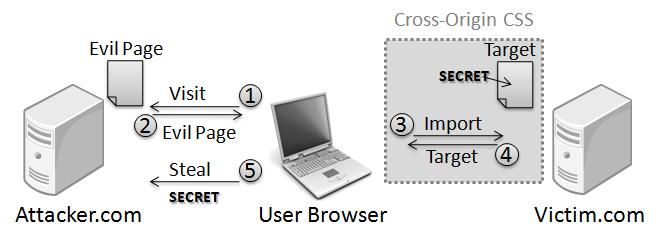
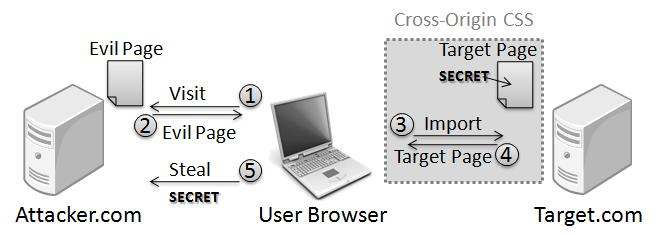
Modify figures

Changed region(s): [[0.7867, 0.8638, 0.9985, 0.983], [0.6051, 0.6255, 0.7564, 0.7149], [0.6657, 0.1787, 0.8169, 0.2681]]

diff --git a/css.tex b/css.tex
@@ -55,7 +55,7 @@ The web attacker can send and receive network messages over network protocols of
 We assume that the user visits the attacker's web site with a popular browser. In practice, this assumption can be supported by several techniques for attacking users, e.g. buying web advertisements or sending bulk e-mail to encourage visitors. By visiting attacker.com, the attacker can instruct the user's browser to fetch external style sheets and also export data to remote servers. As long as the user's session with an honest web site haven't expired, the attacker can instruct the user's browser to issue requests with the user's cookies.
 
 \item{Web Site Behavior:}
-We assume that the attacker can inject semi-arbitrary strings into a target domain that contains the secret content, which we refer to as victim.com. We define the term semi-arbitrary strings as a subset of strings that may conform to CSS syntax as opposed to fully arbitrary strings that conforms to HTML. The ability of injecting CSS strings is considered weaker than injecting HTML strings into the target domain, as in common XSS attacks, because scripts may be detected and blocked by client-side XSS filters. In practice, there are various methods to inject strings into the target domain, e.g. reflection of user controlled strings or via URL parameters.
+We assume that the attacker can inject semi-arbitrary strings into a target domain that contains the secret content, which we refer to as target.com. We define the term semi-arbitrary strings as a subset of strings that may conform to CSS syntax as opposed to fully arbitrary strings that conforms to HTML. The ability of injecting CSS strings is considered weaker than injecting HTML strings into the target domain, as in common XSS attacks, because scripts may be detected and blocked by client-side XSS filters. In practice, there are various methods to inject strings into the target domain, e.g. reflection of user controlled strings or via URL parameters.
 
 \end{itemize}
 
@@ -99,8 +99,8 @@ In a cross-origin CSS attack, the attacker's main objective is to steal the user
 
 \begin{figure}
 \centering
-\includegraphics[width=\linewidth]{steps.jpg}
-\caption{Three Steps of the Attack}
+\includegraphics[width=\linewidth]{injection.jpg}
+\caption{CSS String Injection}
 \end{figure}
 
 \subsubsection{CSS String Injection}
@@ -122,14 +122,14 @@ When the user visits attacker.com, the attacker's malicious page instructs the u
 <HTML>
 <HEAD>
   <STYLE>
-    @import url(http://victim.com);
+    @import url(http://target.com);
   </STYLE>
-  <LINK REL="stylesheet" HREF="http://victim.com">
+  <LINK REL="stylesheet" HREF="http://target.com">
 </HEAD>
 </HTML>
 \end{verbatim}
 \paragraph{Cookies}
-The HTTP cookie mechanism enables web sites to authenticate clients and maintain client states, allowing web sites to not only serve static content but customize the content and appearance for each session user. According to the standards, the browser always sends the user's cookie when it loads any referenced style sheets, including cross-origin CSS. If the user was logged into the victim.com while visiting the malicious page, the browser would send the user's authentication cookie on all requests to victim.com and be considered as valid authenticated requests. This behavior exploits cookie-authenticated web sites and potentially leaks the user's sensitive information in the server's response. 
+The HTTP cookie mechanism enables web sites to authenticate clients and maintain client states, allowing web sites to not only serve static content but customize the content and appearance for each session user. According to the standards, the browser always sends the user's cookie when it loads any referenced style sheets, including cross-origin CSS. If the user was logged into the target.com while visiting the malicious page, the browser would send the user's authentication cookie on all requests to target.com and be considered as valid authenticated requests. This behavior exploits cookie-authenticated web sites and potentially leaks the user's sensitive information in the server's response. 
 
 \subsubsection{Data Export}
 The final step for the attacker is to read the loaded style sheets and export the secret content hidden in the style properties to the attacker. There are various methods to export data to other origins, in this specific attack we are interested in approaches where no user involvement is required. The cross-origin CSS attack is possible by just rendering one evil ad in the user's browser. 
@@ -168,9 +168,9 @@ The first and most crucial step of the cross-origin CSS attack is to contain the
 In CSS specifications\cite{css}, strings can either be written with double quotes or with single quotes. Double quotes cannot occur inside double quotes, analogously for single quotes. Therefore, the attacker has the choice to inject either single or double quotes depending on the occurrence of quotes in the secret data. In a context where both quotes are escaped, it becomes more difficult to inject a CSS string. However, a variation of the attack  can bypass this restriction by injecting the background-image property. For the background-image property, the URL value is written with the functional notation url(), which does not require the use of single or double quotes around the URL string itself. The CSS specification does define that certain characters must be escaped in an unquoted URL, e.g. parentheses, commas, white spaces, single quotes and double quotes. However, in Internet Explorer, the CSS parser does not require any of these characters to be escaped in an unquoted URL and will parse until it encounters a closing parentheses and a semicolon.
 
 \paragraph{Force UTF-7}
-The requirement for quotes to not get escaped can sometimes be bypassed in browsers that support UTF-7 encoding, including Firefox and Safari. If the victim web sites fails to specify a character set in the HTTP  Content-Type header, the attacker's malicious page can force the remote resource to be parsed as UTF-7 encoding as the following:
+The requirement for quotes to not get escaped can sometimes be bypassed in browsers that support UTF-7 encoding, including Firefox and Safari. If the target web sites fails to specify a character set in the HTTP  Content-Type header, the attacker's malicious page can force the remote resource to be parsed as UTF-7 encoding as the following:
 \begin{verbatim}
-<LINK REL="stylesheet" HREF="http://victim.com" 
+<LINK REL="stylesheet" HREF="http://target.com" 
 CHARSET="utf-7">
 \end{verbatim}
 By forcing UTF7, either a single or double quote may be injected by rendering it in the UTF-7 character set, i.e. `+ACc-' for single quote and `+ACI-' for double quote. This will cause the injection to survive any output escaping of the web application. A significant number of web sites actually do not specify character sets in their HTTP responses (We found that 22 out of the top 100 web sites via Alexa\cite{alexa} did not specify character sets). Some web sites specify the Content-Type information using meta tags with the http-equiv attribute in the HTML head element as the following:
@@ -204,7 +204,7 @@ A major concern of strict MIME type checking is that any misconfigured web site 
 The Internet Explorer's proposal of the X-Content-Type-Options header \cite{nosniff} allows opting out of MIME sniffing by specifying the nosniff directive in the HTTP response header. For browsers that support this feature, web developers can configure their servers to specify the nosniff directive and defend against chameleon documents. However, the nosniff directive does not trigger strict MIME type checking for style sheets.
 
 \subsubsection{Conservative Approach}
-To address web site compatibility concerns, we propose a conservative approach that blocks most attacks while tolerating MIME type misconfiguration. In order to reduce false positives in the strict MIME type approach, an additional level of checking is applied to cross-origin CSS loads that have invalid MIME types. When a valid MIME type is not provided, the browser will try to parse the cross-origin CSS but bailing on first syntax error. This sniffing mechanism is to guess whether the imported CSS file is actually an injected victim document. Therefore, the devised solution blocks a CSS load when all the following conditions are met:
+To address web site compatibility concerns, we propose a conservative approach that blocks most attacks while tolerating MIME type misconfiguration. In order to reduce false positives in the strict MIME type approach, an additional level of checking is applied to cross-origin CSS loads that have invalid MIME types. When a valid MIME type is not provided, the browser will try to parse the cross-origin CSS but bailing on first syntax error. This sniffing mechanism is to guess whether the imported CSS file is actually an injected target document. Therefore, the devised solution blocks a CSS load when all the following conditions are met:
 \begin{itemize}
 \item{The CSS load is a cross-origin.}
 \item{The CSS load has an invalid MIME type. Valid MIME types are text/css, application/x-unknown-content-type, and empty.}
